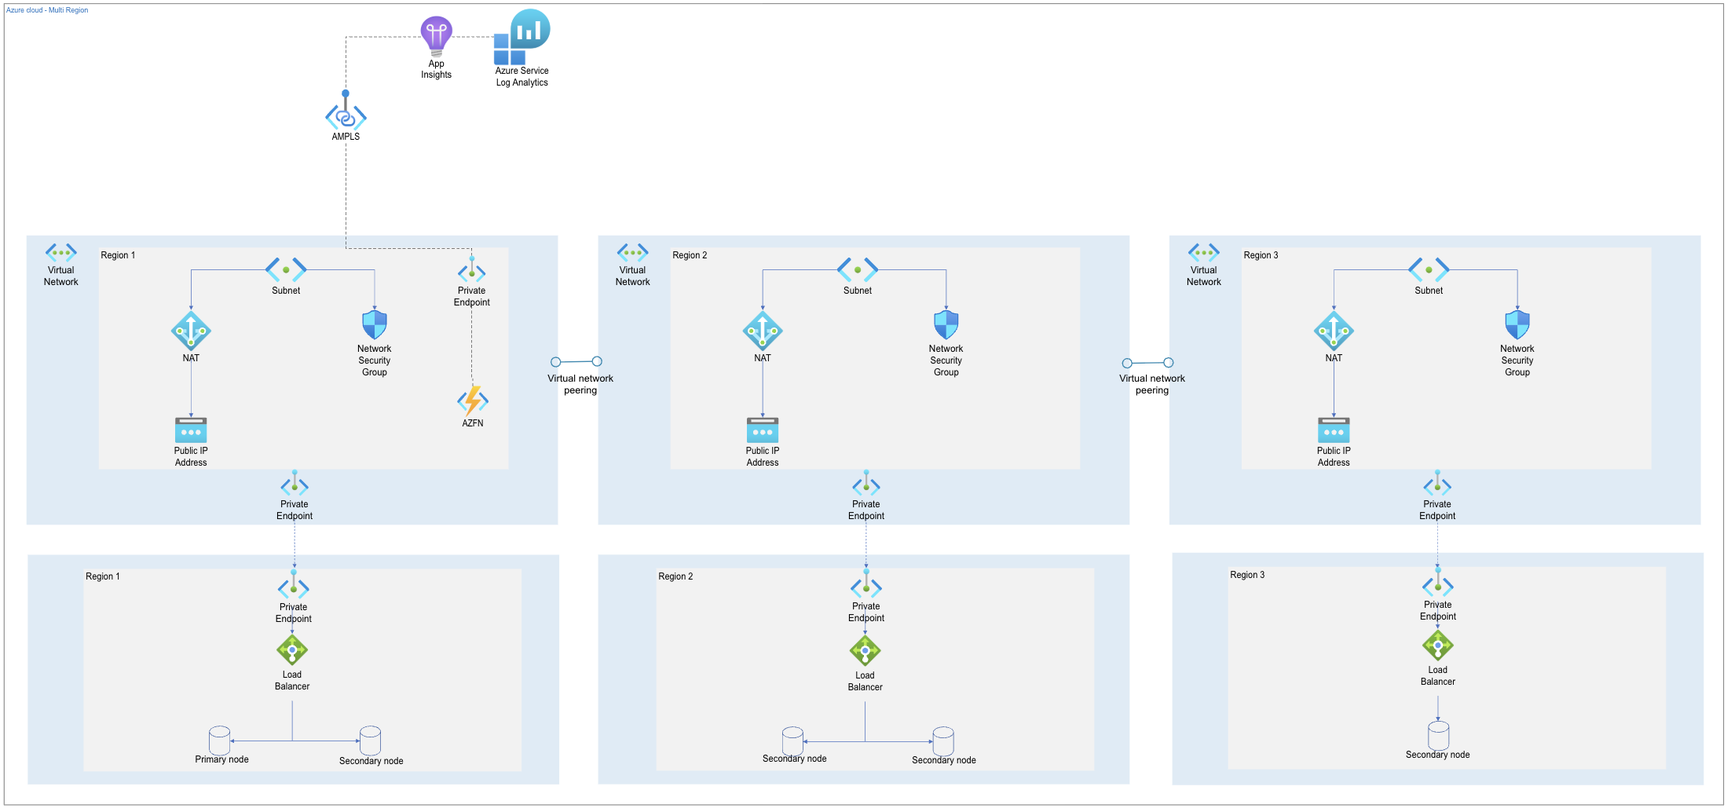
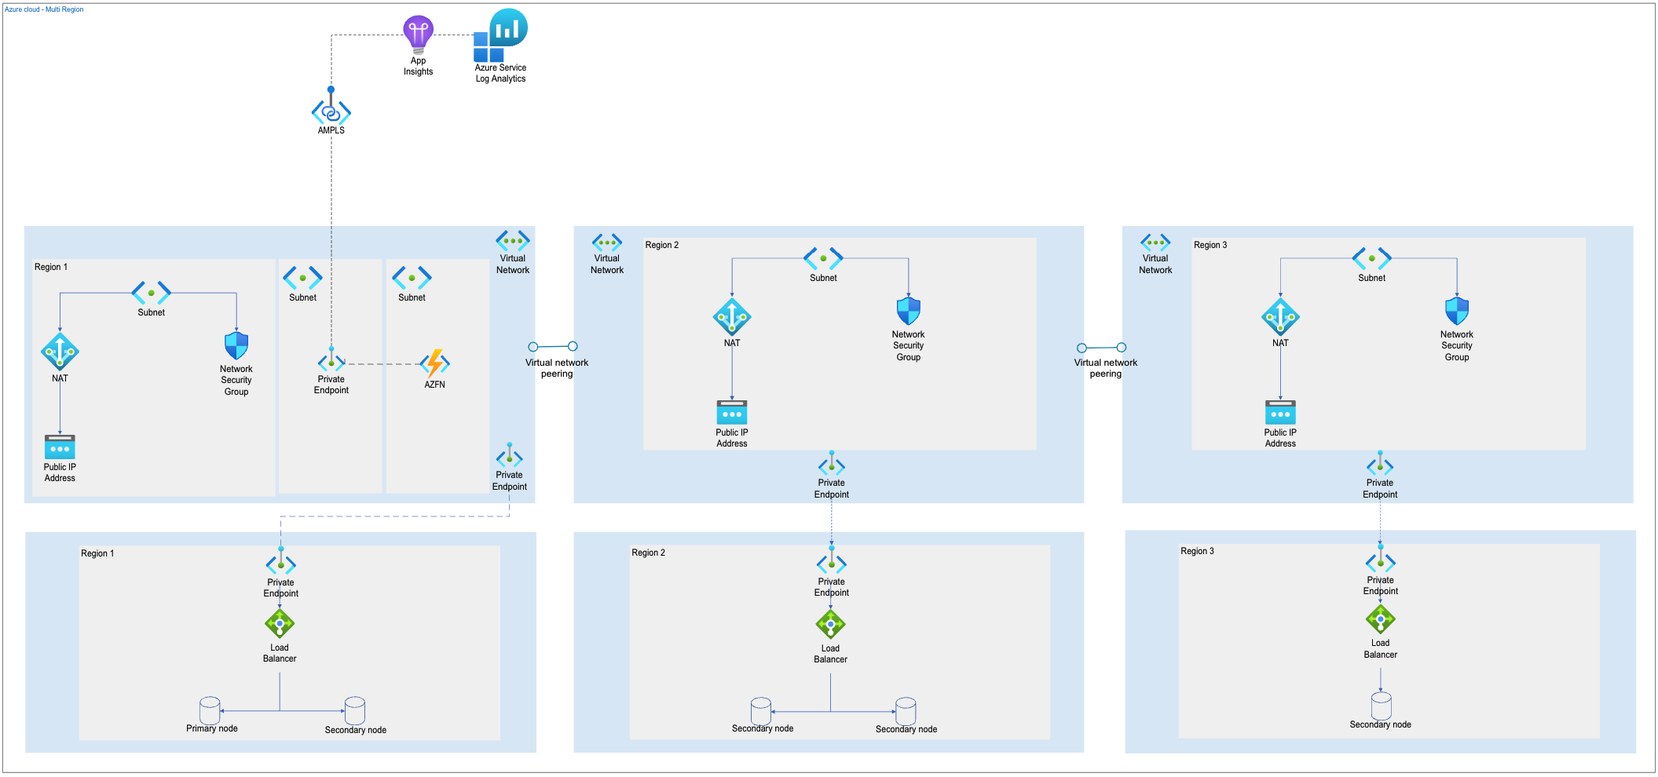
📝 Apply feedback on AAC documentation (#28)

diff --git a/docs/architecture-center/1-baseline-mongodb-atlas-landing-zone.md b/docs/architecture-center/1-baseline-mongodb-atlas-landing-zone.md
@@ -1,188 +1,100 @@
 # Baseline MongoDB Atlas Reference Architecture in an Azure Landing Zone
 
+> [!IMPORTANT]
+> The [Terraform Landing Zone for MongoDB Atlas on Azure](https://github.com/mongodb-partners/Azure-MongoDB-Atlas-Landing-Zone) assumes that you already successfully implemented an Azure landing zone. However, you can use the Terraform Landing Zone for MongoDB Atlas on Azure if your infrastructure doesn't conform to Azure landing zones. For more information, refer to [Cloud Adoption Framework enterprise-scale landing zones](https://learn.microsoft.com/en-us/azure/cloud-adoption-framework/ready/enterprise-scale/).
+
 ## Overview
 
-This document describes a MongoDB Atlas reference architecture designed for deployment in an Azure landing zone environment. The architecture provides secure, private connectivity between Azure resources and MongoDB Atlas clusters while following Azure landing zone principles for resource organization and governance.
+This document presents a baseline reference architecture for deploying MongoDB Atlas in an Azure landing zone. The solution demonstrates how to establish secure, private connectivity between Azure resources and MongoDB Atlas clusters, while following Azure landing zone principles for governance, network segmentation, and automation.
 
-The solution demonstrates how to deploy MongoDB Atlas in an enterprise Azure environment with proper network segmentation, private connectivity, and infrastructure automation.
-
-> [!IMPORTANT]
-> **What are Azure landing zones?**
->
-> Azure landing zones divide your organization's cloud footprint into two key areas:
->
-> - An application landing zone is an Azure subscription where a workload runs. An application landing zone connects to your organization's shared platform resources. That connection provides the landing zone with access to the infrastructure that supports the workload, such as networking, identity access management, policies, and monitoring.
->
-> - A platform landing zone is a collection of various subscriptions that multiple platform teams can manage. Each subscription has a specific function. For example, a connectivity subscription provides centralized Domain Name System (DNS) resolution, cross-premises connectivity, and network virtual appliances (NVAs) for platform teams.
->
-> To help you implement this architecture, understand [Azure landing zones](https://learn.microsoft.com/en-us/azure/cloud-adoption-framework/ready/landing-zone/), their [design principles](https://learn.microsoft.com/en-us/azure/cloud-adoption-framework/ready/landing-zone/design-principles), and their [design areas](https://learn.microsoft.com/en-us/azure/cloud-adoption-framework/ready/landing-zone/design-areas).
+By leveraging managed cloud services and Azure-native networking, this architecture provides a foundation for scalable, resilient, and secure application data workloads across both single-region and multi-region scenarios.
 
 ---
 
 ## Architecture
 
-This landing zone accelerator supports two deployment patterns based on your requirements:
+The MongoDB Atlas Azure landing zone accelerator supports two deployment patterns, each designed to address different requirements for availability, resilience, and operational complexity:
 
 ### Single-Region Architecture
 
-The single-region deployment provides a straightforward MongoDB Atlas setup within a single Azure region, ideal for applications with regional data residency requirements or simpler connectivity needs.
+In the single-region deployment, all core components—including the MongoDB Atlas cluster, Azure Virtual Network, monitoring, and supporting application infrastructure—are provisioned within a single Azure region. This setup is ideal for applications with regional data residency requirements or when resilience to regional failure is not a primary concern.
 
-> **Architecture Basis:**
-> This deployment follows the [Single-Region Deployment Paradigm](https://www.mongodb.com/docs/atlas/architecture/current/deployment-paradigms/single-region/) from MongoDB Atlas. All cluster nodes are placed within a single region, leveraging cloud provider availability zones for added resilience. This is the most cost-effective option and is suitable when the risk of a regional failure is acceptable.
+#### Architecture Diagram
 
-#### Single-Region Architecture Diagram
+![Single-region Atlas on Azure reference architecture](../images/architecture-single-region-numbered.png)
 
-![Single-region Atlas on Azure reference architecture](../images/architecture-single-region.png)
+#### Workflow
+
+The following steps describe the end-to-end workflow for the single-region scenario. Each step corresponds to a numbered element in the architecture diagram:
+
+1. **Application or Service**: Applications or services, are deployed in the subnet with the NSG and the NAT so that they are secured and have visibility to the MongoDB Atlas clusters. These can include web apps, backend services, analytics jobs, or integration tools.
+2. **MongoDB Atlas Cluster**: The MongoDB Atlas clusers are visible through a private endpoint connection and can connect to the applications or services deployed in the secured Virtual Network.
+3. **Observability**: An Azure Function App periodically queries the MongoDB Atlas API to gather database health and performance metrics, which are visualized in Application Insights dashboards.
+
+This tightly integrated, private architecture ensures data security, minimizes latency for regional applications, and streamlines management for IT teams.
+
+Please read [this MongoDB Atlas article](https://www.mongodb.com/docs/atlas/architecture/current/deployment-paradigms/single-region/) for more detailed information on single region architecture.
 
 ### Multi-Region Architecture
 
-The multi-region deployment provides enhanced availability and disaster recovery capabilities with MongoDB Atlas clusters distributed across multiple Azure regions, connected via VNet peering.
+For organizations with higher requirements for business continuity and disaster recovery, the multi-region architecture distributes MongoDB Atlas cluster nodes and supporting infrastructure across multiple Azure regions. The design leverages VNet peering and multiple private endpoints to provide seamless, secure connectivity, even in the event of a regional failure.
 
-> **Architecture Basis:**
-> This deployment is based on the [5-Node, 3-Region Architecture (2+2+1)](https://www.mongodb.com/docs/atlas/architecture/current/deployment-paradigms/multi-region/#5-node--3-region-architecture--2-2-1-) recommended by MongoDB Atlas. It ensures near-instant recovery in case of a regional outage, with nodes distributed across three regions (2+2+1) for automated failover and data loss protection during maintenance or full regional incidents.
+#### Architecture Diagram
 
-#### Multi-Region Architecture Diagram
+![Multi-region Atlas on Azure reference architecture](../images/architecture-multi-region-numbered.png)
 
-![Multi-region Atlas on Azure reference architecture](../images/architecture-multi-region.png)
+#### Workflow
 
-### Components
+The following steps outline the multi-region scenario, with numbering matching the architecture diagram:
 
-#### MongoDB Atlas (External Service)
+1. **Application or Service**: Applications or services, are deployed in the subnet with the NSG and the NAT so that they are secured and have visibility to the MongoDB Atlas clusters. These can include web apps, backend services, analytics jobs, or integration tools.
+2. **MongoDB Atlas Cluster**: The MongoDB Atlas clusers are visible through a private endpoint connection and can connect to the applications or services deployed in the secured Virtual Network.
+3. **Observability**: An Azure Function App periodically queries the MongoDB Atlas API to gather database health and performance metrics, which are visualized in Application Insights dashboards.
+4. **Resiliency**: VNet Peering is enabled so that in case of a regional outage, all remaining regions have visibility to the rest of the MongoDB Atlas clusters.
 
-**Single-Region Configuration:**
+This architecture enables organizations to deliver highly available, resilient services, meeting the most demanding business and compliance requirements.
 
-- **Atlas Project and Cluster**: MongoDB cluster deployed in a single Azure region
-- **Private Link Endpoint**: One private endpoint in the target region
-- **Database Configuration**: Replica set with configurable sizing (M10+)
-- **Backup and Recovery**: Automated backup with configurable retention
-
-**Multi-Region Configuration:**
-
-- **Atlas Project and Cluster**: MongoDB cluster with nodes distributed across multiple Azure regions
-- **Private Link Endpoints**: Multiple private endpoints, one per Azure region
-- **Database Configuration**: Cross-region replica set for high availability
-- **Backup and Recovery**: Cross-region backup and disaster recovery capabilities
-
-#### Azure Base Infrastructure
-
-**Single-Region Deployment:**
-
-- **Virtual Network**: Single VNet in primary region
-- **Private Subnet**: One private subnet for MongoDB Atlas connectivity
-- **Private Endpoints**: Single private endpoint for MongoDB Atlas
-- **NAT Gateway**: Outbound internet connectivity for the private subnet
-- **Network Security Groups**: Traffic segmentation and security controls
-- **Private DNS Zone**: DNS resolution for MongoDB Atlas private endpoints
-- **Application Insights**: Centralized monitoring and diagnostics for metrics collected from MongoDB Atlas.
-- **Storage Account & Container**: Secure storage for Function App code and logs.
-- **Service Plan**: Linux Flex Consumption plan for hosting the Function App.
-- **Function App (Flex Consumption)**: Hosts the metrics collection function (code must be deployed separately).
-- **Private DNS Zones & Links**: Ensures secure, private connectivity for monitoring and storage endpoints.
-- **Azure Monitor Private Link Scope & Scoped Service**: Enables private connectivity for Application Insights.
-- **Private Endpoint**: Secure private access to Application Insights.
-
-**Multi-Region Deployment:**
-
-- **Primary Virtual Network**: VNet in primary region
-- **Secondary Virtual Network**: VNet in secondary region
-- **VNet Peering**: Cross-region connectivity between virtual networks
-- **Private Subnets**: One private subnet per region for MongoDB Atlas connectivity
-- **Private Endpoints**: Multiple private endpoints, one per region
-- **NAT Gateways**: Outbound connectivity in each region
-- **Network Security Groups**: Consistent security controls across regions
-- **Private DNS Zones**: Cross-region DNS resolution for MongoDB Atlas
-- **Application Insights**: Centralized monitoring and diagnostics for metrics collected from MongoDB Atlas.
-- **Storage Account & Container**: Secure storage for Function App code and logs.
-- **Service Plan**: Linux Flex Consumption plan for hosting the Function App.
-- **Function App (Flex Consumption)**: Hosts the metrics collection function (code must be deployed separately).
-- **Private DNS Zones & Links**: Ensures secure, private connectivity for monitoring and storage endpoints.
-- **Azure Monitor Private Link Scope & Scoped Service**: Enables private connectivity for Application Insights.
-- **Private Endpoint**: Secure private access to Application Insights.
-
-#### Infrastructure Automation
-
-- **Terraform Modules**: Modular infrastructure as code
-- **GitHub Actions**: CI/CD pipeline integration (optional)
+Please read [this MongoDB Atlas article](https://www.mongodb.com/docs/atlas/architecture/current/deployment-paradigms/multi-region/#5-node--3-region-architecture--2-2-1-) for more detailed information on 5-Node, 3-Region Architecture (2+2+1).
 
 ---
 
-## Networking
+## Components
 
-### Network Design Overview
+The architecture brings together several core components to deliver security, scalability, and operational excellence:
 
-The MongoDB Atlas Azure Landing Zone supports both single-region and multi-region network topologies, each optimized for different availability and performance requirements.
-
-#### Single-Region Network Topology
-
-**Design Pattern**: All resources deployed within a single Azure region for simplicity and optimal performance.
-
-**Key Components**:
-
-- **Virtual Network**: Single VNet with dedicated address space
-- **Private Subnet**: Hosts private endpoint for MongoDB Atlas connectivity  
-- **NAT Gateway**: Provides secure outbound internet access
-- **Private Endpoint**: Azure Private Link connection to MongoDB Atlas
-- **Network Security Groups**: Control traffic flow with least-privilege rules
-
-**Benefits**:
-
-- Simplified management and configuration
-- Lowest latency for regional applications
-- Cost-effective for single-region deployments
-
-**Limitations**:
-
-- No protection against regional outages
-- Suited for localized applications
-
-#### Multi-Region Network Topology
-
-**Design Pattern**: Resources distributed across multiple Azure regions with VNet peering for cross-region connectivity.
-
-**Key Components**:
-
-- **Regional VNets**: Separate VNets per region with non-overlapping CIDR ranges
-- **VNet Peering**: Cross-region connectivity between virtual networks
-- **Regional Private Endpoints**: Private Link connections in each region
-- **Regional NAT Gateways**: Outbound connectivity per region
-- **NSG Rules**: Unified security policies across regions
-
-**Benefits**:
-
-- High availability with regional redundancy
-- Disaster recovery capabilities
-- Global application support
-
-**Limitations**:
-
-- Higher operational complexity
-- Increased costs for multi-region resources
-
-### Implementation Guidance
-
-**Planning Considerations**:
-
-- **Address Space**: Use non-overlapping CIDR blocks across regions
-- **Private Connectivity**: Leverage Azure Private Link for secure MongoDB Atlas access
-- **Security**: Implement least-privilege NSG rules
-- **Performance**: Size networks and Atlas clusters for peak load
+- **MongoDB Atlas (Managed Service)**: Provides managed database clusters with automated backups, high availability, and optional multi-region deployment. Atlas role-based access control (RBAC) ensures fine-grained data security.
+- **Azure Virtual Networks and Private Endpoints**: Ensure all communications between Azure resources and MongoDB Atlas are private and encrypted, never traversing the public internet.
+- **Network Security Groups (NSGs) and NAT Gateways**: Enforce network segmentation and secure outbound connectivity.
+- **Observability**: Azure Application Insights and Function Apps provide centralized monitoring and operational visibility.
+- **Infrastructure Automation**: Terraform modules and GitHub Actions enable infrastructure as code, automation, and repeatable deployments.
 
 ---
 
 ## Security
 
-### Network Security
+Security provides assurances against deliberate attacks and the abuse of your valuable data and systems. For more information, see [Design review checklist for Security](https://learn.microsoft.com/en-us/azure/well-architected/security/checklist).
 
-- **Private Endpoints**: No public internet access to MongoDB Atlas
-- **Network Segmentation**: Separate subnets for different functions
-- **Controlled Egress**: NAT Gateway for outbound connectivity
-- **NSG Rules**: Least-privilege network access
+Most databases store sensitive data. Implementing security only at the database level isn't enough to secure the architecture where you deploy these workloads. Defense in-depth is a comprehensive approach to security that implements multiple layers of defense mechanisms to protect data. Instead of relying on a single security measure at a specific level, such as focusing only on network security mechanisms, the defense in-depth strategy uses a combination of different layer security measures to create a robust security posture. You can architect the defense in-depth approach for MongoDB Atlas workloads by using hardened network security with private endpoints and VNet peering from the Azure infrastructure side. For detailed information about MongoDB Atlas security features, see [MongoDB Atlas Security](https://www.mongodb.com/docs/atlas/setup-cluster-security/).
 
-### Identity and Access
+The Azure infrastructure hosting applications that connect to MongoDB Atlas must be secured against unauthorized access. In this landing zone accelerator, MongoDB Atlas connectivity is established through private endpoints, which provide the following security benefits:
 
-- **MongoDB Atlas RBAC**: Database-level access controls
-- **Network-based Security**: Private Link for connectivity
-- **Azure RBAC**: Role-based access control for Azure resources
+- **Private connectivity**: Traffic between Azure resources and MongoDB Atlas never traverses the public internet.
+- **Network isolation**: Private endpoints are deployed within your Azure VNet, providing network-level isolation
+
+When implementing VNet peering for MongoDB Atlas connectivity, consider the following security practices:
+
+- **Hub-and-spoke topology**: Implement a hub-and-spoke network topology with centralized security controls in the hub VNet.
+- **Least privilege access**: Configure VNet peering with minimal required permissions and disable unnecessary features like gateway transit when not needed.
+- **Network segmentation**: Implement proper network segmentation to isolate different workloads and environments.
+
+> We recommend evaluating whether additional Microsoft security services beyond those listed, e.g Azure Firewall, Defender for DDoS, Defender for Cloud, Microsoft Entra, and Azure Key Vault - are appropriate for your environment. Depending on your architecture and threat model, you may also want to consider among other options:
+>
+> - [Azure Web Application Firewall (WAF)](https://learn.microsoft.com/en-us/azure/web-application-firewall/overview)
+> - [Defender for App Service](https://learn.microsoft.com/en-us/azure/defender-for-cloud/defender-for-app-service-introduction)
+> - [Defender for Servers](https://learn.microsoft.com/en-us/azure/defender-for-cloud/defender-for-servers-overview)
+> - [Microsoft Entra Global Secure Access (GSA)](https://learn.microsoft.com/en-us/entra/global-secure-access/overview-what-is-global-secure-access)
+
+**Note**: Azure Key Vault or Atlas secrets management can be integrated to secure application credentials.
 
 ---
 
@@ -190,79 +102,48 @@ The MongoDB Atlas Azure Landing Zone supports both single-region and multi-regio
 
 ### Backup and Recovery
 
-- **MongoDB Atlas Backup**: Automated, configurable backup policies
-- **Point-in-time Recovery**: Granular recovery options
-- **Cross-region Replication**: For multi-region deployments
+- MongoDB Atlas automated backup policies ensure that data can be restored to any point in time, within retention limits.
+- Operational runbooks should include regular backup testing and validation.
 
 ### Cost Optimization
 
-- **Right-sizing**: MongoDB cluster sizing based on actual usage
-- **Reserved Capacity**: For predictable workloads
-- **Azure Cost Management**: Monitor and optimize Azure resource costs
+Cost tracking requires careful monitoring across multiple subscription architectures because MongoDB Atlas billing consolidates under the primary subscription. Understand cost allocation patterns and use appropriate tools for comprehensive expense tracking.
+
+Use Microsoft Cost Management tools to track overall Azure expenses across all subscriptions:
+
+- **Review costs regularly by using Cost Management tools.** These tools provide insights into overall Azure expenses and track resource usage patterns across your MongoDB Atlas deployment.
+
+- **Understand billing consolidation.** Charges related to MongoDB Atlas resources in the primary subscription consolidate under that subscription. Individual per-subscription billing details aren't itemized in Azure for MongoDB Atlas resources.
+
+- **Track independent charges through MongoDB Atlas.** For detailed cost tracking and invoicing specific to MongoDB Atlas usage, refer to MongoDB Atlas cost management tools and reports.
+
+- **Cluster sizing is based on observed workload metrics** with reserved capacity available for predictable workloads. For more information related to Cluster configuration costs, check [this document](https://www.mongodb.com/docs/atlas/billing/cluster-configuration-costs/) in the MongoDB Atlas site.
 
 ---
 
-## Implementation Modules
+## Monitoring
 
-The solution includes the following Terraform modules for base infrastructure:
+Monitoring is a critical part of any production-level solution. Support Azure solutions with a [monitoring strategy](https://learn.microsoft.com/en-us/azure/cloud-adoption-framework/strategy/monitoring-strategy) as part of the end-to-end [observability](https://learn.microsoft.com/en-us/azure/cloud-adoption-framework/manage/monitor/observability) strategy.
 
-**Single-Region Modules:**
+The *Landing Zone for MongoDB Atlas on Azure* does not deploy or configure monitoring solutions for MongoDB Atlas on Azure. Users are responsible for implementing these practices based on their specific requirements.
 
-- **Network Module**: VNet, private subnet, NAT Gateway, NSGs for single region
-- **Atlas Single-Region Configuration**: MongoDB cluster and Private Link setup for single region
-- **Observability**: Application Insights, Storage Account & Container, Service Plan, Function App, Private DNS Zones & Links, Azure Monitor Private Link Scope & Scoped Service, Private Endpoint
+Use Atlas to monitor:
 
-**Multi-Region Modules:**
+- **Metrics**
+- **Real-Time Performance Panel**
+- **Namespace Insights**
+- **Query Profiler**
+- **Performance Advisor**
+- **Billing Cost Explorer**
 
-- **Network Module**: VNet, private subnet, NAT Gateway, NSGs (deployed per region)
-- **Atlas Multi-Region Configuration**: MongoDB cluster and Private Link setup across multiple regions
-- **VNet Peering Module**: Cross-region connectivity between virtual networks
-- **Observability**: Application Insights, Storage Account & Container, Service Plan, Function App, Private DNS Zones & Links, Azure Monitor Private Link Scope & Scoped Service, Private Endpoint
+References for metrics: [How to Monitor MongoDB and What Metrics to Monitor](https://www.mongodb.com/resources/products/capabilities/how-to-monitor-mongodb-and-what-metrics-to-monitor).
 
----
+Configure **Project Alerts** to notify on metric drift from your baseline (e.g., rising query targeting, any scan-and-order, or normalized CPU sustained >70% or <40%). Docs: [Monitoring and Alerts](https://www.mongodb.com/docs/atlas/monitoring-alerts/).
 
-## Metrics & Observability
-
-### Architecture Overview
-
-The solution provisions Azure-native observability resources for monitoring, logging, and metrics collection for MongoDB Atlas and supporting infrastructure.
-
-#### Key Components
-
-- **Application Insights**: Receives metrics from the Function App and provides dashboards, analytics, and alerting.
-- **Function App**: Runs on a schedule, queries the MongoDB Atlas API for metrics, and pushes results to Application Insights.
-- **Service Plan**: Hosts the Function App.
-- **Storage Account & Container**: Stores the Function App code package and logs securely.
-- **Private DNS Zones**: Provide private DNS resolution for Azure monitoring and storage endpoints.
-- **Private Endpoints**: Secure connectivity for Application Insights, Storage Account, and monitoring resources.
-- **Subnets for Observability**: Created in the VNet of the target region. Used for Function App and Private Endpoint placement.
-
-#### Metrics Collection Flow
-
-1. **Function App Execution**: The Function App runs on a schedule (e.g., every 5 minutes) using a timer trigger.
-2. **Atlas API Query**: The function authenticates to the MongoDB Atlas API and retrieves cluster metrics (e.g., CPU, memory, connections, disk usage).
-3. **Metrics Push**: Retrieved metrics are sent to Application Insights for visualization, alerting, and long-term analysis.
-4. **Secure Storage**: Function code and logs are stored in a dedicated Storage Account, accessible only via private endpoints.
-5. **Monitoring & Alerting**: Application Insights provides dashboards, query capabilities, and alerting for operational health and performance.
-
-#### Benefits
-
-- Centralized monitoring and alerting for all Atlas clusters and supporting infrastructure
-- Secure, private data flow for all observability traffic
-- Automated, scheduled metrics collection and visualization
-- Scalable and cost-effective monitoring architecture
-
----
-
-## Related Resources
-
-- [MongoDB Atlas Azure Landing Zone Accelerator Repository](https://github.com/mongodb-partners/Azure-MongoDB-Atlas-Landing-Zone)
-- [Azure Landing Zone Design Areas](https://learn.microsoft.com/en-us/azure/cloud-adoption-framework/ready/landing-zone/design-areas)
-- [MongoDB Atlas Private Endpoints](https://www.mongodb.com/docs/atlas/security-private-endpoint/)
-- [Azure Well-Architected Framework](https://learn.microsoft.com/en-us/azure/well-architected/)
+**Note:** Azure Monitor cannot read Atlas metrics directly. Use Atlas UI/API/webhooks or supported integrations to ingest them.
 
 ---
 
 ## Next Steps
 
-[Deploy a reference implementation](https://github.com/mongodb-partners/Azure-MongoDB-Atlas-Landing-Zone)
+To deploy this architecture, follow the step-by-step instructions and Terraform automation in the [MongoDB Atlas Azure Landing Zone Accelerator repository](https://github.com/mongodb-partners/Azure-MongoDB-Atlas-Landing-Zone). Review Azure landing zone documentation to ensure your environment meets governance and security best practices.
